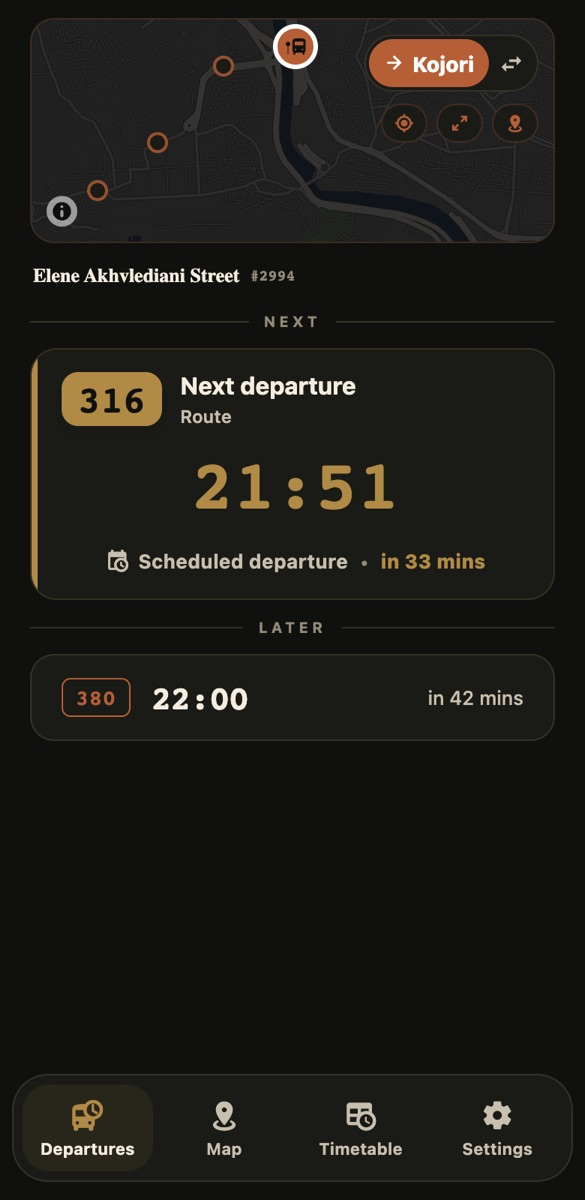
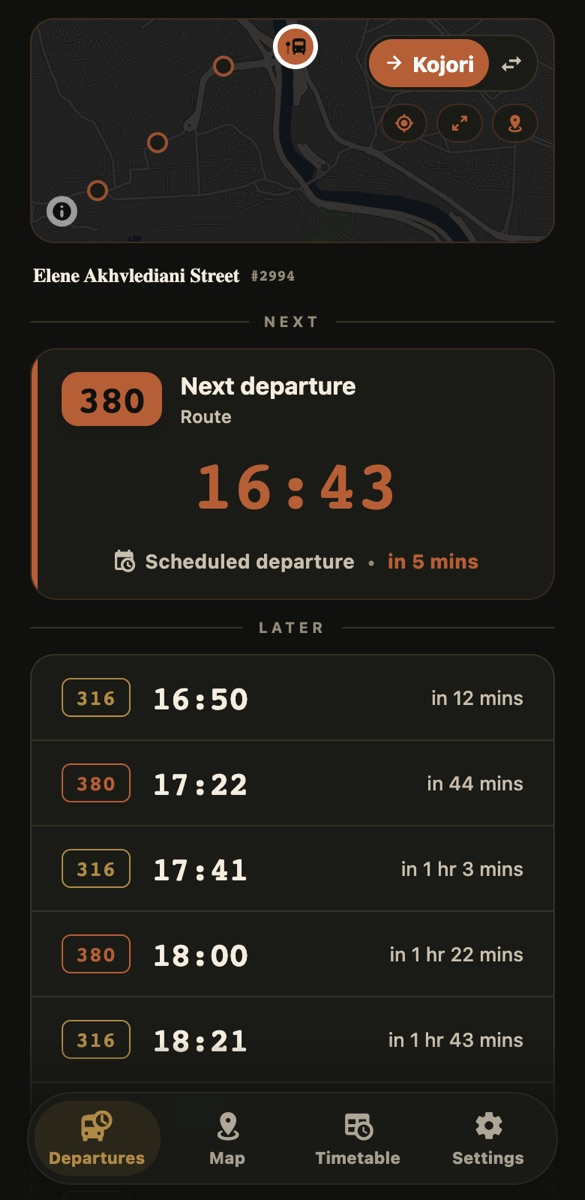
feat(web): native-style tab bar; fix bus pin shadow; daytime screenshots
- The web tab bar follows the Android bar in app-tabs.tsx: floating frosted
  pill, sliding highlight, press and activation animation, accent label,
  content fade, and safe-area bottom padding for the iPhone Home indicator.
- Bus pins used a shadow that react-native-web renders as a box-shadow of
  the square canvas; on the web they use a drop-shadow that follows the pin.
- Landing screenshots retaken with the new bar, at a daytime clock (16:38
  Tbilisi) so Departures shows scheduled buses, with the app's demo buses
  on the Map; og.png updated.

diff --git a/src/components/app-tabs.web.tsx b/src/components/app-tabs.web.tsx
@@ -1,16 +1,27 @@
 import MaterialCommunityIcons from "@expo/vector-icons/MaterialCommunityIcons";
 import { usePathname, useRouter } from "expo-router";
 import React, { useEffect, useState } from "react";
-import { Pressable, StyleSheet, Text, View } from "react-native";
+import { Pressable, StyleSheet, View } from "react-native";
+import Svg, { Defs, LinearGradient, Rect, Stop } from "react-native-svg";
+import Animated, {
+  interpolateColor,
+  useAnimatedStyle,
+  useSharedValue,
+  withSequence,
+  withTiming,
+  type SharedValue,
+} from "react-native-reanimated";
+import { useSafeAreaInsets } from "react-native-safe-area-context";
 
 import ExploreScreen from "@/app/explore";
 import HomeScreen from "@/app/index";
 import SettingsScreen from "@/app/settings";
 import TimetableScreen from "@/app/timetable";
-import { alpha, MaxContentWidth } from "@/constants/theme";
+import { alpha, MaxContentWidth, type AppColors } from "@/constants/theme";
 import { useAppColors } from "@/hooks/use-app-colors";
 import { useI18n } from "@/hooks/use-i18n";
 import { MapFocusProvider } from "@/hooks/use-map-focus";
+import { useReducedMotion } from "@/hooks/use-reduced-motion";
 import { TabNavProvider, type TabRoute } from "@/hooks/use-tab-nav";
 import { scheduleIdleTask } from "@/utils/idle-task";
 
@@ -23,6 +34,11 @@ function routeForPath(pathname: string): TabRoute {
   const segment = pathname.replace(/^\/+/, "").split("/")[0];
   return (ROUTES as string[]).includes(segment) ? (segment as TabRoute) : "index";
 }
+
+// Same geometry as the Android bar in app-tabs.tsx.
+const NAV_GAP = 6;
+const NAV_PADDING = 5;
+const NAV_HIGHLIGHT_EXTRA = 2;
 
 const HREFS = {
   index: "/",
@@ -47,7 +63,13 @@ export default function AppTabs({
   const pathname = usePathname();
   const { t } = useI18n();
   const colors = useAppColors();
+  const styles = React.useMemo(() => createStyles(colors), [colors]);
+  const insets = useSafeAreaInsets();
+  const reduceMotion = useReducedMotion();
   const activeRoute = routeForPath(pathname);
+  const activeIndex = ROUTES.indexOf(activeRoute);
+  const progress = useSharedValue(activeIndex);
+  const [navWidth, setNavWidth] = useState(0);
   const [mounted, setMounted] = useState<ReadonlySet<TabRoute>>(() => new Set([activeRoute]));
 
   if (!mounted.has(activeRoute)) setMounted(new Set([...mounted, activeRoute]));
@@ -67,6 +89,19 @@ export default function AppTabs({
     });
     return () => tasks.forEach(cancel => cancel());
   }, [deferInactiveTabs]);
+
+  useEffect(() => {
+    progress.value = reduceMotion ? activeIndex : withTiming(activeIndex, { duration: 220 });
+  }, [activeIndex, progress, reduceMotion]);
+
+  const tabWidth = navWidth > 0
+    ? (navWidth - NAV_PADDING * 2 - NAV_GAP * (ROUTES.length - 1)) / ROUTES.length
+    : 0;
+  const highlightStyle = useAnimatedStyle(() => ({
+    transform: [{
+      translateX: NAV_PADDING - NAV_HIGHLIGHT_EXTRA / 2 + progress.value * (tabWidth + NAV_GAP),
+    }],
+  }));
 
   function navigate(route: TabRoute) {
     if (route === activeRoute) return;
@@ -97,7 +132,7 @@ export default function AppTabs({
   return (
     <MapFocusProvider>
       <TabNavProvider value={navigate}>
-        <View style={[styles.root, { backgroundColor: colors.bg }]}>
+        <View style={styles.root}>
           {ROUTES.filter(route => mounted.has(route)).map(route => (
             <View
               key={route}
@@ -107,17 +142,41 @@ export default function AppTabs({
             </View>
           ))}
           <View
-            accessibilityRole="tablist"
-            style={[styles.bar, { backgroundColor: colors.surface, borderColor: colors.border }]}>
-            {tabs.map(tab => (
-              <TabButton
-                key={tab.route}
-                icon={tab.icon}
-                title={tab.title}
-                focused={tab.route === activeRoute}
-                onPress={() => navigate(tab.route)}
-              />
-            ))}
+            pointerEvents="box-none"
+            style={[styles.navWrap, { paddingBottom: Math.max(insets.bottom, 10) }]}>
+            <Svg pointerEvents="none" width="100%" height="100%" style={styles.navFade}>
+              <Defs>
+                <LinearGradient id="navFade" x1="0" y1="0" x2="0" y2="1">
+                  <Stop offset="0" stopColor={colors.bg} stopOpacity="0" />
+                  <Stop offset="0.48" stopColor={colors.bg} stopOpacity="0.78" />
+                  <Stop offset="1" stopColor={colors.bg} stopOpacity="0.96" />
+                </LinearGradient>
+              </Defs>
+              <Rect x="0" y="0" width="100%" height="100%" fill="url(#navFade)" />
+            </Svg>
+            <View
+              accessibilityRole="tablist"
+              style={styles.navBar}
+              onLayout={event => setNavWidth(event.nativeEvent.layout.width)}>
+              {tabWidth > 0 ? (
+                <Animated.View
+                  pointerEvents="none"
+                  style={[styles.navHighlight, { width: tabWidth + NAV_HIGHLIGHT_EXTRA }, highlightStyle]}
+                />
+              ) : null}
+              {tabs.map((tab, index) => (
+                <TabButton
+                  key={tab.route}
+                  icon={tab.icon}
+                  title={tab.title}
+                  index={index}
+                  activeIndex={activeIndex}
+                  progress={progress}
+                  reduceMotion={reduceMotion}
+                  onPress={() => navigate(tab.route)}
+                />
+              ))}
+            </View>
           </View>
         </View>
       </TabNavProvider>
@@ -128,69 +187,139 @@ export default function AppTabs({
 function TabButton({
   icon,
   title,
-  focused,
+  index,
+  activeIndex,
+  progress,
+  reduceMotion,
   onPress,
 }: {
   icon: React.ComponentProps<typeof MaterialCommunityIcons>["name"];
   title: string;
-  focused: boolean;
+  index: number;
+  activeIndex: number;
+  progress: SharedValue<number>;
+  reduceMotion: boolean;
   onPress: () => void;
 }) {
-  const colors = useAppColors();
+  const C = useAppColors();
+  const styles = React.useMemo(() => createStyles(C), [C]);
+  const focused = index === activeIndex;
+  const pressProgress = useSharedValue(0);
+  const activationPulse = useSharedValue(0);
+
+  useEffect(() => {
+    if (!focused || reduceMotion) return;
+    activationPulse.value = withSequence(
+      withTiming(1, { duration: 120 }),
+      withTiming(0, { duration: 180 }),
+    );
+  }, [activationPulse, focused, reduceMotion]);
+
+  const iconStyle = useAnimatedStyle(() => {
+    const distance = Math.min(Math.abs(progress.value - index), 1);
+    const pressScale = 1 - pressProgress.value * 0.12;
+    const activeScale = 1 + activationPulse.value * 0.08;
+    return {
+      opacity: 1 - distance * 0.15,
+      transform: [
+        { translateY: pressProgress.value * 2 - activationPulse.value * 1.5 },
+        { scale: (1 - distance * 0.04) * pressScale * activeScale },
+      ],
+    };
+  }, [index]);
+
+  const labelStyle = useAnimatedStyle(() => {
+    const distance = Math.min(Math.abs(progress.value - index), 1);
+    return {
+      color: interpolateColor(distance, [0, 1], [C.primary, C.textDim]),
+      opacity: 1 - distance * 0.2,
+    };
+  }, [C.primary, C.textDim, index]);
+
   return (
     <Pressable
       accessibilityRole="tab"
+      accessibilityLabel={title}
       accessibilityState={{ selected: focused }}
+      onPressIn={() => {
+        pressProgress.value = withTiming(1, { duration: reduceMotion ? 1 : 80 });
+      }}
+      onPressOut={() => {
+        pressProgress.value = withTiming(0, { duration: reduceMotion ? 1 : 140 });
+      }}
       onPress={onPress}
-      style={({ hovered }) => [
-        styles.button,
-        {
-          backgroundColor: focused
-            ? alpha(colors.primary, "18")
-            : hovered
-              ? alpha(colors.text, "0A")
-              : "transparent",
-        },
-      ]}
+      style={({ hovered }) => [styles.navButton, hovered && !focused && styles.navButtonHover]}
     >
-      <MaterialCommunityIcons
-        name={icon}
-        size={22}
-        color={focused ? colors.primary : colors.textDim}
-      />
-      <Text
-        style={[styles.label, { color: focused ? colors.text : colors.textDim }]}
-        numberOfLines={1}
-      >
+      {/* Icon fonts have no setNativeProps on the web, so the wrapper animates. */}
+      <Animated.View style={iconStyle}>
+        <MaterialCommunityIcons name={icon} size={22} color={focused ? C.primary : C.textDim} />
+      </Animated.View>
+      <Animated.Text style={[styles.navLabel, labelStyle]} numberOfLines={1}>
         {title}
-      </Text>
+      </Animated.Text>
     </Pressable>
   );
 }
 
-const styles = StyleSheet.create({
-  root: { flex: 1 },
-  page: { ...StyleSheet.absoluteFill },
-  hidden: { display: "none" },
-  bar: {
-    position: "absolute",
-    bottom: 12,
-    width: "96%",
-    maxWidth: MaxContentWidth,
-    alignSelf: "center",
-    flexDirection: "row",
-    padding: 6,
-    gap: 4,
-    borderWidth: 1,
-    borderRadius: 24,
-  },
-  button: {
-    flex: 1,
-    minHeight: 58,
-    alignItems: "center",
-    justifyContent: "center",
-    borderRadius: 18,
-    gap: 4,
-  },
-  label: { fontSize: 11, fontWeight: "700" },
-});
+function createStyles(C: AppColors) {
+  const dark = C.mode === "dark";
+  return StyleSheet.create({
+    root: { flex: 1, backgroundColor: C.bg },
+    page: { ...StyleSheet.absoluteFill },
+    hidden: { display: "none" },
+    navWrap: {
+      position: "absolute",
+      left: 0,
+      right: 0,
+      bottom: 0,
+      paddingHorizontal: 18,
+      paddingTop: 34,
+      alignItems: "center",
+    },
+    navFade: { position: "absolute", left: 0, right: 0, top: 0, bottom: 0 },
+    navBar: {
+      position: "relative",
+      width: "100%",
+      maxWidth: MaxContentWidth,
+      flexDirection: "row",
+      gap: NAV_GAP,
+      minHeight: 60,
+      padding: NAV_PADDING,
+      borderRadius: 30,
+      borderWidth: StyleSheet.hairlineWidth,
+      borderColor: alpha(C.border, dark ? "80" : "72"),
+      backgroundColor: alpha(C.surface, dark ? "D9" : "D8"),
+      boxShadow: dark ? "0 4px 10px rgba(0, 0, 0, 0.2)" : "0 4px 10px rgba(0, 0, 0, 0.07)",
+      overflow: "hidden",
+      // Frosted like the iOS tab bar; react-native-web passes it to CSS.
+      ...({ backdropFilter: "blur(18px) saturate(1.5)", WebkitBackdropFilter: "blur(18px) saturate(1.5)" } as object),
+    },
+    navHighlight: {
+      position: "absolute",
+      top: NAV_PADDING,
+      bottom: NAV_PADDING,
+      left: 0,
+      borderRadius: 24,
+      backgroundColor: alpha(C.primary, dark ? "1C" : "11"),
+    },
+    navButton: {
+      flex: 1,
+      minHeight: 50,
+      alignItems: "center",
+      justifyContent: "center",
+      gap: 3,
+      borderRadius: 24,
+      zIndex: 1,
+      cursor: "pointer",
+    },
+    navButtonHover: { backgroundColor: alpha(C.text, "08") },
+    navLabel: {
+      fontSize: 11,
+      lineHeight: 14,
+      fontWeight: "800",
+      letterSpacing: 0,
+      textAlign: "center",
+      maxWidth: "100%",
+    },
+  });
+}

diff --git a/src/app/explore.tsx b/src/app/explore.tsx
@@ -2,7 +2,7 @@ import MaterialCommunityIcons from '@expo/vector-icons/MaterialCommunityIcons';
 import { useQueries, useQueryClient } from '@tanstack/react-query';
 import * as Location from 'expo-location';
 import React, { useEffect, useMemo, useRef, useState } from 'react';
-import { Animated, BackHandler, Easing, Pressable, StyleSheet, Text, useWindowDimensions, View, type StyleProp, type ViewStyle } from 'react-native';
+import { Animated, BackHandler, Easing, Platform, Pressable, StyleSheet, Text, useWindowDimensions, View, type StyleProp, type ViewStyle } from 'react-native';
 import { useSafeAreaInsets } from 'react-native-safe-area-context';
 
 import { MapEmptyState } from '@/components/map-empty-state';
@@ -2279,11 +2279,18 @@ function createStyles(C: ReturnType<typeof useAppColors>) {
     alignItems: 'center',
     justifyContent: 'flex-start',
     overflow: 'visible',
-    shadowColor: '#000',
-    shadowOpacity: 0.24,
-    shadowRadius: 8,
-    shadowOffset: { width: 0, height: 4 },
-    elevation: 6,
+    ...Platform.select({
+      // On the web a shadow becomes a box-shadow of this square canvas; a
+      // drop-shadow follows the pin's shape the way the iOS shadow does.
+      web: { filter: 'drop-shadow(0 4px 6px rgba(0, 0, 0, 0.24))' },
+      default: {
+        shadowColor: '#000',
+        shadowOpacity: 0.24,
+        shadowRadius: 8,
+        shadowOffset: { width: 0, height: 4 },
+        elevation: 6,
+      },
+    }),
   },
   vehiclePinShape: {
     position: 'absolute',

diff --git a/CHANGELOG.md b/CHANGELOG.md
@@ -10,6 +10,7 @@
 - Web tabs switch instantly instead of flashing a blank page while each screen loads, and the browser back button walks back through tabs. A link straight to the Map, Timetable or Settings tab opens that tab instead of the trip chooser.
 - The web install tip is a single slim row: tap it for the Add to Home Screen steps, use the Install button where the browser offers one, or dismiss it. The start screen keeps a phone-width column on wide screens.
 - The web tab bar matches the phone app: a floating, frosted bar with a highlight that slides to the selected tab, the same press animation, the selected label in the accent color, content fading out under it, and room for the iPhone Home indicator in the installed web app.
+- Bus pins on the web map no longer sit on a grey square: their shadow follows the pin's shape, as on the phones.
 - The map credits on the web start folded into a small "i" instead of a banner across the map.
 
 ### Fixed
